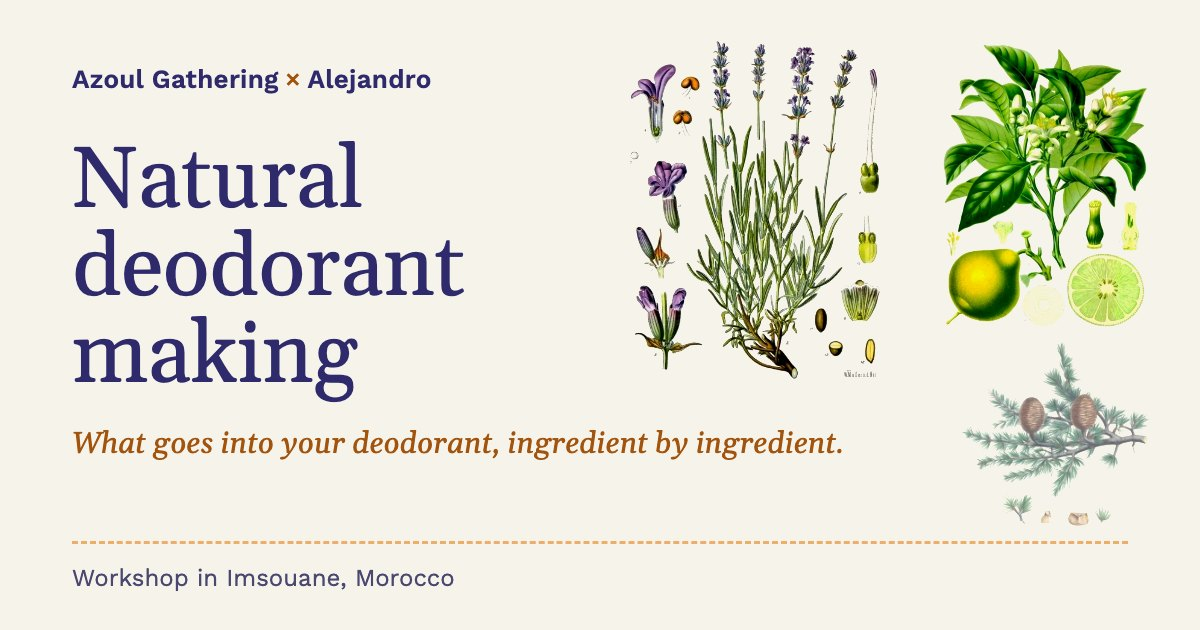
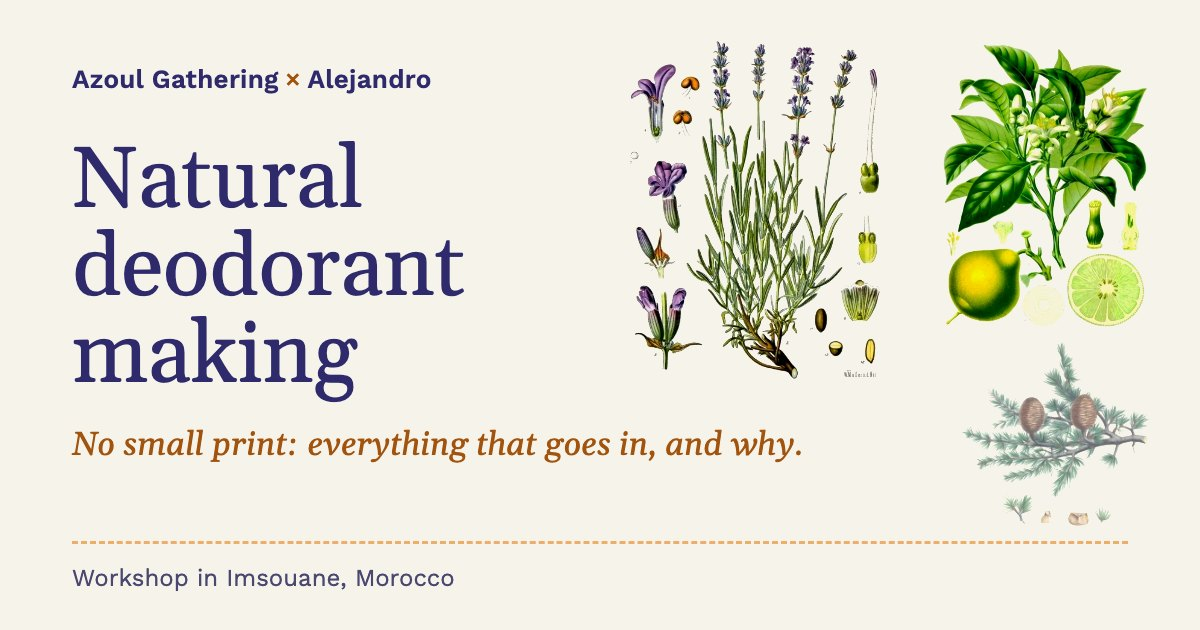
Hero subline: no small print

Changed region(s): [[0.0617, 0.6635, 0.7092, 0.754]]

diff --git a/public/index.html b/public/index.html
@@ -564,7 +564,7 @@ const L = {
     ui: {
       skip: "Skip to content", lang: "Language", recipeQ: "What is the recipe for 100 g?", recipeP: "This is the workshop formula scaled to 100 g, enough for about three 30 ml jars.", eo: "Essential oils", recipeNote: "1.5 g of essential oils is about 12 drops per 30 ml jar, the amount used in the blends above. For sensitive skin use half and make up the difference with shea butter. Weigh everything on a scale; drops are only a guide.", menu: "Menu",
       navHow: "How it works", navBase: "The base", navAromas: "The scents", navBlends: "The blends", navWithout: "What's left out", navProcess: "Made by hand", navFaq: "Questions", navContact: "Contact",
-      heroSub: "What goes into your deodorant, ingredient by ingredient.",
+      heroSub: "No small print: everything that goes in, and why.",
       heroP: "In this workshop we make a natural deodorant by hand with three plant fats, three powders and nine essential oils. Here is what each one does and why it is in the formula.",
       heroCta: "See the ingredients",
       howH: "Deodorant, not antiperspirant",
@@ -640,7 +640,7 @@ const L = {
     ui: {
       skip: "Zum Inhalt springen", lang: "Sprache", recipeQ: "Wie lautet das Rezept für 100 g?", recipeP: "Das ist die Workshop-Rezeptur, umgerechnet auf 100 g – genug für etwa drei 30-ml-Tiegel.", eo: "Ätherische Öle", recipeNote: "1,5 g ätherische Öle entsprechen etwa 12 Tropfen pro 30-ml-Tiegel – so viel wie in den Mischungen oben. Bei empfindlicher Haut nimm die Hälfte und gleiche den Rest mit Sheabutter aus. Wiege alles mit einer Waage ab; Tropfen sind nur ein Richtwert.", menu: "Menü",
       navHow: "So wirkt es", navBase: "Die Basis", navAromas: "Die Düfte", navBlends: "Die Mischungen", navWithout: "Was nicht drin ist", navProcess: "Handgemacht", navFaq: "Fragen", navContact: "Kontakt",
-      heroSub: "Was in deinem Deo steckt, Zutat für Zutat.",
+      heroSub: "Ohne Kleingedrucktes: alles, was drin ist, und warum.",
       heroP: "In diesem Workshop stellen wir von Hand ein natürliches Deo her – aus drei Pflanzenfetten, drei Pulvern und neun ätherischen Ölen. Hier erfährst du, was jede Zutat bewirkt und warum sie in der Rezeptur ist.",
       heroCta: "Zutaten ansehen",
       howH: "Deo, kein Antitranspirant",
@@ -716,7 +716,7 @@ const L = {
     ui: {
       skip: "İçeriğe geç", lang: "Dil", recipeQ: "100 g için tarif nedir?", recipeP: "Bu, atölye formülünün 100 grama uyarlanmış hâlidir; yaklaşık üç adet 30 ml'lik kavanoz için yeterlidir.", eo: "Uçucu yağlar", recipeNote: "1,5 g uçucu yağ, 30 ml'lik kavanoz başına yaklaşık 12 damla eder, yani yukarıdaki karışımlardaki miktar. Hassas ciltler için yarısını kullan ve farkı shea yağıyla tamamla. Her şeyi teraziyle tart; damla sayısı yalnızca bir rehberdir.", menu: "Menü",
       navHow: "Nasıl çalışır", navBase: "Baz", navAromas: "Kokular", navBlends: "Karışımlar", navWithout: "İçinde olmayanlar", navProcess: "El yapımı", navFaq: "Sorular", navContact: "İletişim",
-      heroSub: "Deodorantında ne var, bileşen bileşen.",
+      heroSub: "Küçük puntolu yazı yok: içindeki her şey ve nedeni.",
       heroP: "Bu atölyede üç bitkisel yağ, üç toz ve dokuz uçucu yağ ile el yapımı doğal bir deodorant hazırlıyoruz. Her birinin ne işe yaradığını ve formülde neden bulunduğunu burada anlatıyoruz.",
       heroCta: "Bileşenleri gör",
       howH: "Deodorant, antiperspirant değil",
@@ -792,7 +792,7 @@ const L = {
     ui: {
       skip: "Saltar al contenido", lang: "Idioma", recipeQ: "¿Cuál es la receta para 100 g?", recipeP: "Es la fórmula del taller adaptada a 100 g, suficiente para unos tres tarros de 30 ml.", eo: "Aceites esenciales", recipeNote: "1,5 g de aceites esenciales son unas 12 gotas por tarro de 30 ml, la cantidad de las mezclas de arriba. Para piel sensible usa la mitad y completa la diferencia con manteca de karité. Pésalo todo con báscula; las gotas son solo una guía.", menu: "Menú",
       navHow: "Cómo funciona", navBase: "La base", navAromas: "Los aromas", navBlends: "Las mezclas", navWithout: "Lo que no lleva", navProcess: "Hecho a mano", navFaq: "Preguntas", navContact: "Contacto",
-      heroSub: "Lo que lleva tu desodorante, ingrediente a ingrediente.",
+      heroSub: "Sin letra pequeña: todo lo que lleva y por qué.",
       heroP: "En este taller hacemos a mano un desodorante natural con tres grasas vegetales, tres polvos y nueve aceites esenciales. Aquí te contamos qué hace cada uno y por qué está en la fórmula.",
       heroCta: "Ver los ingredientes",
       howH: "Desodorante, no antitranspirante",
